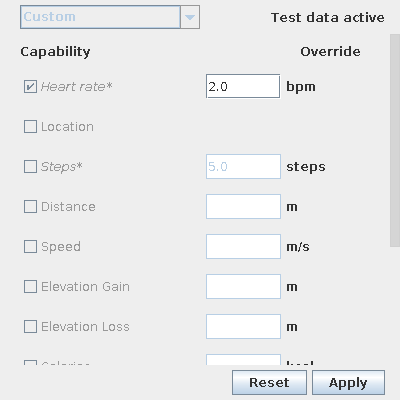
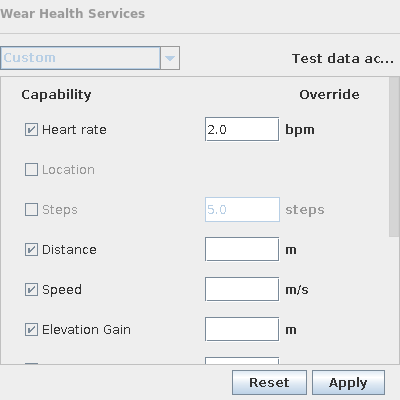
Only disable labels during exercise if the capability is
... disabled.

Bug: N/A
Test: manually tested

diff --git a/wear-whs/testSrc/com/android/tools/idea/wearwhs/view/WearHealthServicesContentPanelTest.kt b/wear-whs/testSrc/com/android/tools/idea/wearwhs/view/WearHealthServicesContentPanelTest.kt
@@ -229,14 +229,14 @@ class WearHealthServicesContentPanelTest {
     val fakeUi = FakeUi(whsPanel)
 
     fakeUi.waitForDescendant<ComboBox<Preset>> { it.isEnabled }
-    fakeUi.waitForDescendant<JCheckBox> { it.text.contains("Heart rate") && it.isEnabled }
-    fakeUi.waitForDescendant<JCheckBox> { it.text.contains("Steps") && it.isEnabled }
+    fakeUi.waitForDescendant<JCheckBox> { it.hasLabel("Heart rate") && it.isEnabled }
+    fakeUi.waitForDescendant<JCheckBox> { it.hasLabel("Steps") && it.isEnabled }
 
     deviceManager.activeExercise = true
 
     fakeUi.waitForDescendant<ComboBox<Preset>> { !it.isEnabled }
-    fakeUi.waitForDescendant<JCheckBox> { it.text.contains("Heart rate") && !it.isEnabled }
-    fakeUi.waitForDescendant<JCheckBox> { it.text.contains("Steps") && !it.isEnabled }
+    fakeUi.waitForDescendant<JCheckBox> { it.hasLabel("Heart rate") && !it.isEnabled }
+    fakeUi.waitForDescendant<JCheckBox> { it.hasLabel("Steps") && !it.isEnabled }
   }
 
   @Test
@@ -247,24 +247,24 @@ class WearHealthServicesContentPanelTest {
     val applyButton = fakeUi.waitForDescendant<JButton> { it.text == "Apply" }
     applyButton.doClick()
 
-    val hrCheckBox = fakeUi.waitForDescendant<JCheckBox> { it.text == "Heart rate" }
+    val hrCheckBox = fakeUi.waitForDescendant<JCheckBox> { it.hasLabel("Heart rate") }
     hrCheckBox.doClick()
 
-    fakeUi.waitForDescendant<JCheckBox> { it.text == "Heart rate*" }
+    fakeUi.waitForDescendant<JCheckBox> { it.hasLabel("Heart rate*") }
 
     applyButton.doClick()
 
-    fakeUi.waitForDescendant<JCheckBox> { it.text == "Heart rate" }
+    fakeUi.waitForDescendant<JCheckBox> { it.hasLabel("Heart rate") }
 
     deviceManager.activeExercise = true
     val textField = fakeUi.waitForDescendant<JTextField> { it.isVisible }
     textField.text = "50"
 
-    fakeUi.waitForDescendant<JCheckBox> { it.text == "Heart rate*" }
+    fakeUi.waitForDescendant<JCheckBox> { it.hasLabel("Heart rate*") }
 
     applyButton.doClick()
 
-    fakeUi.waitForDescendant<JCheckBox> { it.text == "Heart rate" }
+    fakeUi.waitForDescendant<JCheckBox> { it.hasLabel("Heart rate") }
   }
 
   @Test
@@ -299,9 +299,12 @@ class WearHealthServicesContentPanelTest {
     fakeUi.waitForDescendant<JLabel> { it.text == "bpm" && !it.isEnabled }
   }
 
-  private fun FakeUi.waitForCheckbox(text: String, selected: Boolean) = waitForDescendant<JCheckBox> {
-    it.text.contains(text) && it.isSelected == selected
+  private fun FakeUi.waitForCheckbox(text: String, selected: Boolean) = waitForDescendant<JCheckBox> { checkbox ->
+    checkbox.hasLabel(text) && checkbox.isSelected == selected
   }
+
+  private fun JCheckBox.hasLabel(text: String) =
+    parent.findDescendant<JLabel> { it.text.contains(text) } != null
 
   // The UI loads on asynchronous coroutine, we need to wait
   private inline fun <reified T> FakeUi.waitForDescendant(crossinline predicate: (T) -> Boolean = { true }): T {

diff --git a/wear-whs/src/com/android/tools/idea/wearwhs/view/WearHealthServicesPanel.kt b/wear-whs/src/com/android/tools/idea/wearwhs/view/WearHealthServicesPanel.kt
@@ -93,22 +93,24 @@ private fun createCenterPanel(
     capabilities.forEach { capability ->
       add(JPanel(BorderLayout()).apply {
         preferredSize = Dimension(0, 35)
-        val checkBox = JCheckBox(WearWhsBundle.message(capability.label)).also { checkBox ->
-          elementsToDisableDuringExercise.add(checkBox)
-          val plainFont = checkBox.font.deriveFont(Font.PLAIN)
-          val italicFont = checkBox.font.deriveFont(Font.ITALIC)
-          stateManager.getState(capability).map { it.capabilityState.enabled }.onEach { enabled ->
-            checkBox.isSelected = enabled
-          }.launchIn(uiScope)
+        val label = JLabel(WearWhsBundle.message(capability.label)).also { label ->
+          val plainFont = label.font.deriveFont(Font.PLAIN)
+          val italicFont = label.font.deriveFont(Font.ITALIC)
           stateManager.getState(capability).map { it.synced }.onEach { synced ->
             if (!synced) {
-              checkBox.font = italicFont
-              checkBox.text = "${WearWhsBundle.message(capability.label)}*"
+              label.font = italicFont
+              label.text = "${WearWhsBundle.message(capability.label)}*"
             }
             else {
-              checkBox.font = plainFont
-              checkBox.text = WearWhsBundle.message(capability.label)
+              label.font = plainFont
+              label.text = WearWhsBundle.message(capability.label)
             }
+          }.launchIn(uiScope)
+        }
+        val checkBox = JCheckBox().also { checkBox ->
+          elementsToDisableDuringExercise.add(checkBox)
+          stateManager.getState(capability).map { it.capabilityState.enabled }.onEach { enabled ->
+            checkBox.isSelected = enabled
           }.launchIn(uiScope)
           checkBox.addActionListener {
             workerScope.launch {
@@ -117,7 +119,12 @@ private fun createCenterPanel(
             }
           }
         }
-        add(checkBox, BorderLayout.CENTER)
+        stateManager.ongoingExercise.onEach {
+          label.isEnabled = !it || checkBox.isSelected
+        }.launchIn(uiScope)
+
+        add(checkBox, BorderLayout.LINE_START)
+        add(label, BorderLayout.CENTER)
         add(JPanel(FlowLayout()).apply {
           elementsToDisplayDuringExercise.add(this)
           add(JTextField().also { textField ->
